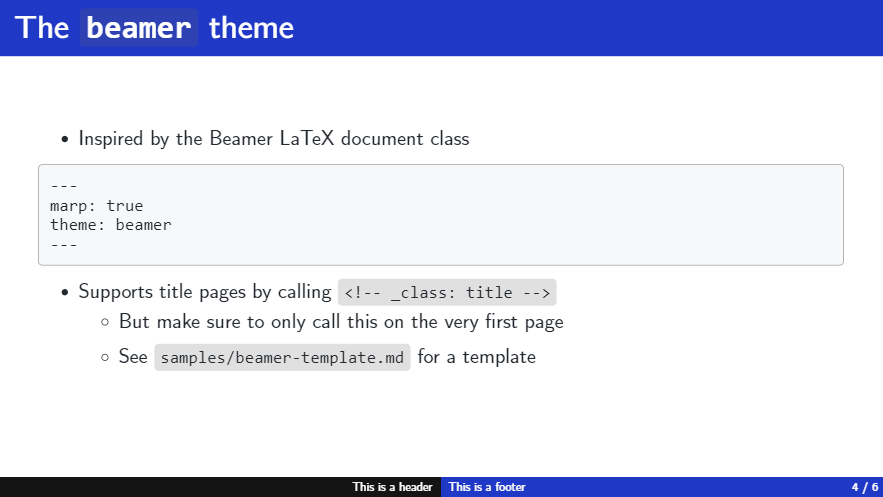
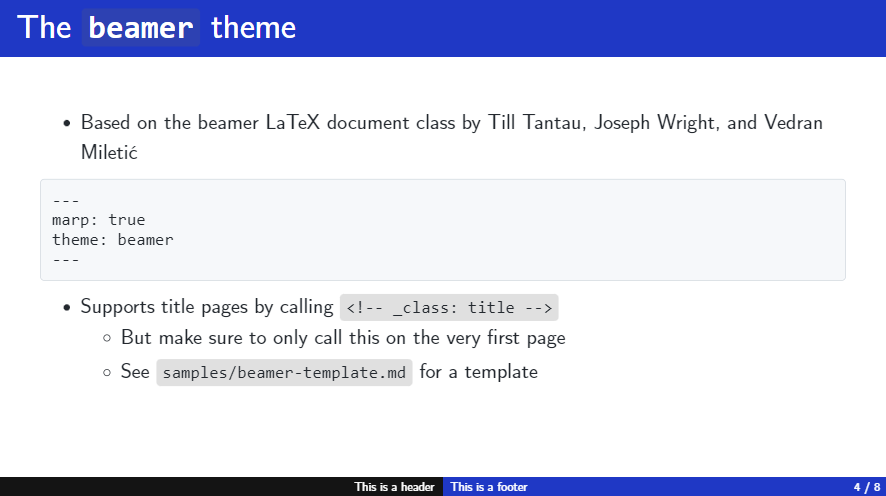
Link to beamer

diff --git a/README.md b/README.md
@@ -2,7 +2,7 @@
 
 [Marp](https://marp.app/) is used to create presentations in Markdown. In this repository, you may find simple CSS themes that I have created. Namely:
 
-- `beamer`, inspired by LaTeX's Beamer class
+- `beamer`, based on [LaTeX's beamer class](https://github.com/josephwright/beamer)
   - download the [Computer Modern Unicode font family](https://ctan.org/pkg/cm-unicode?lang=en) for best results
 
 ![beamer sample](./samples/beamer.png)
